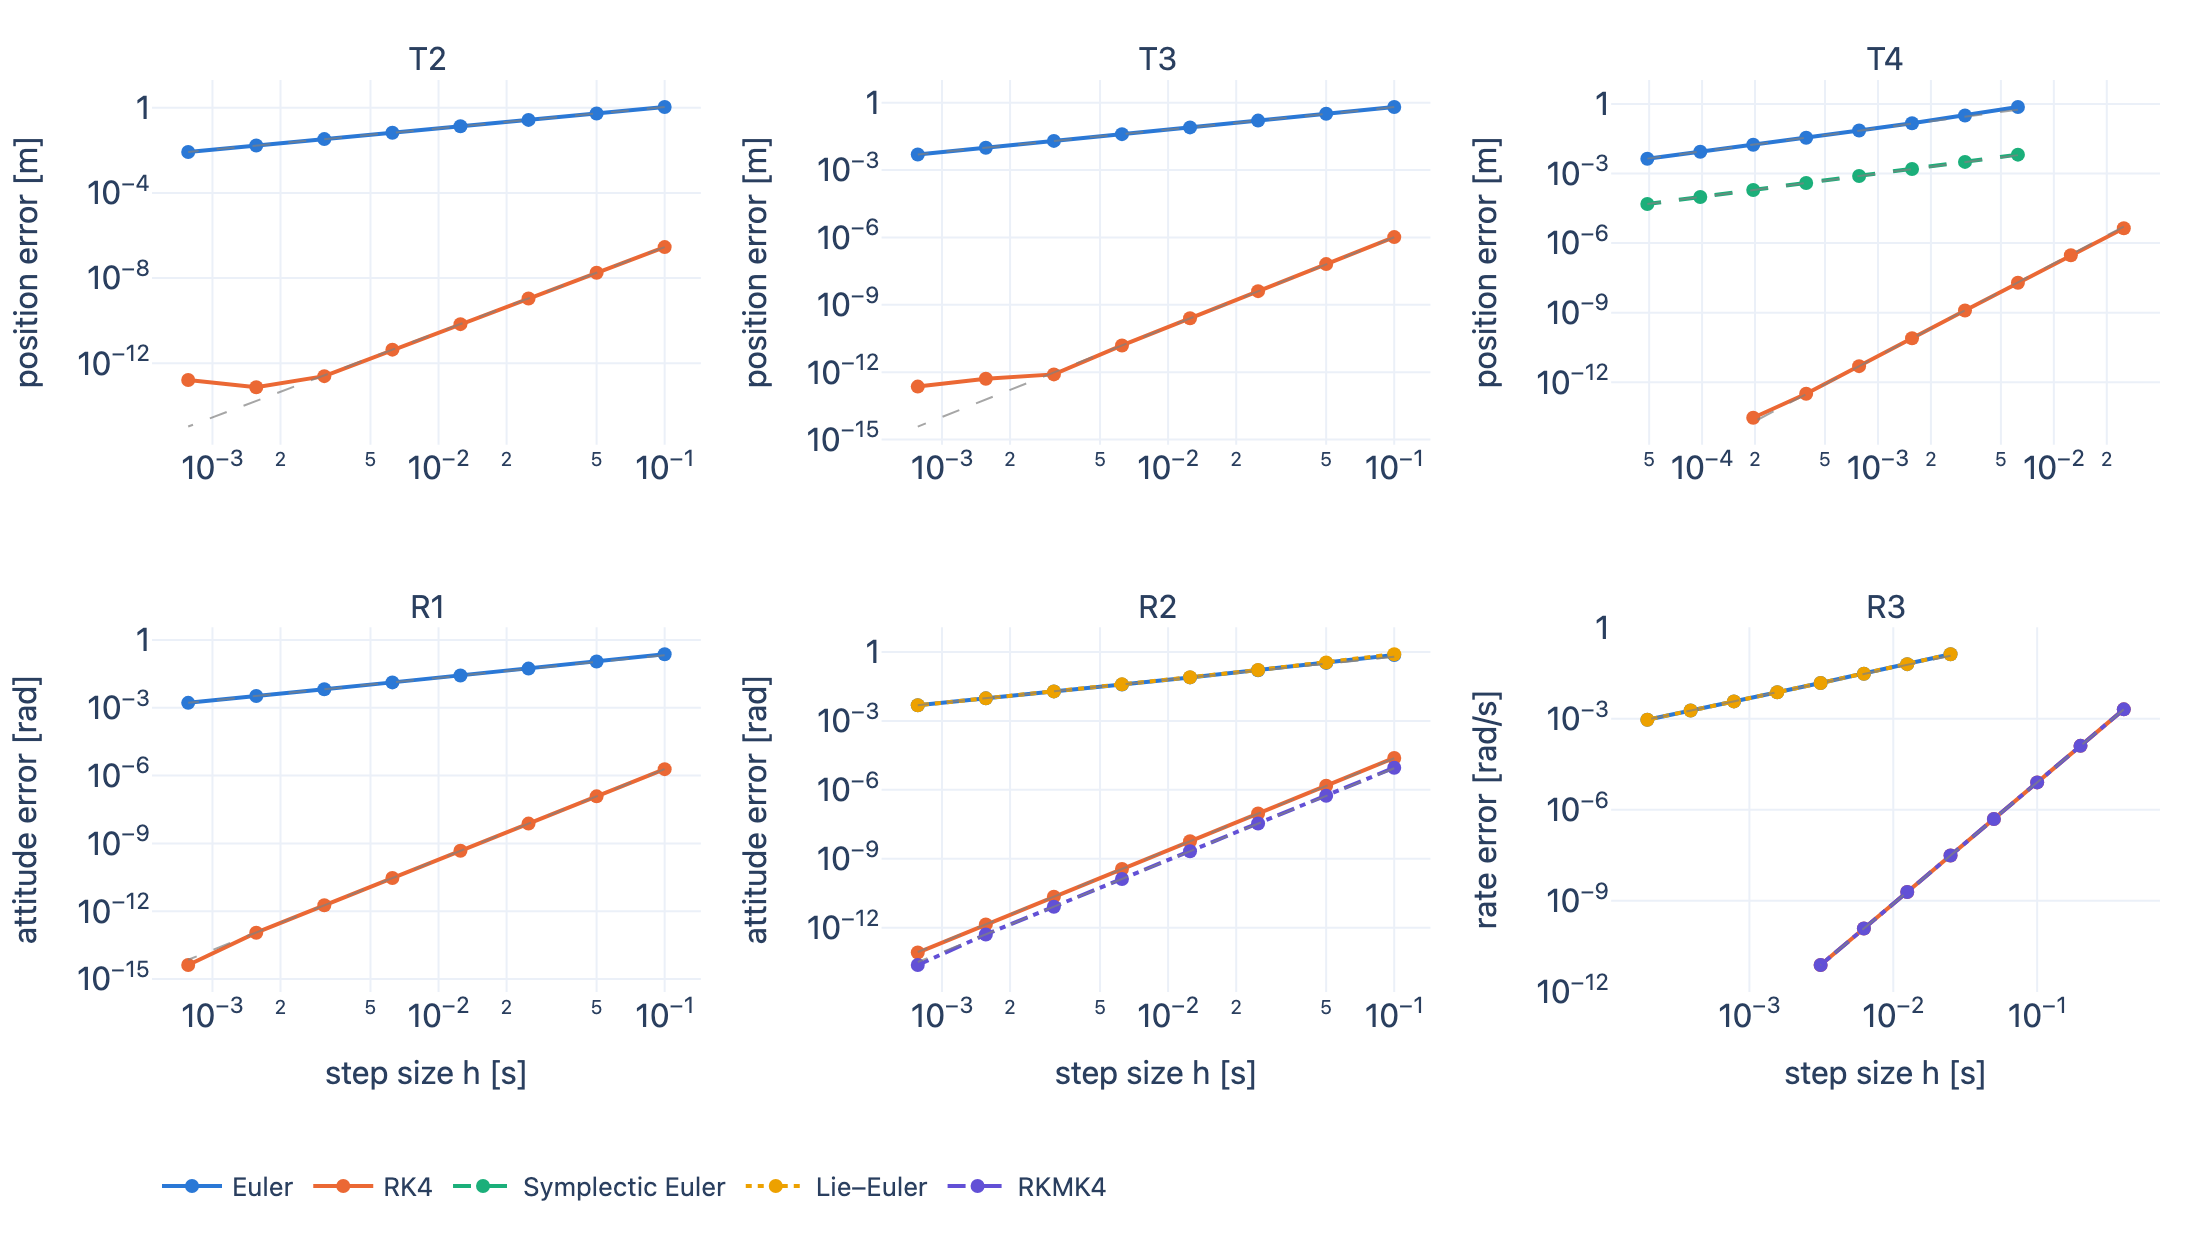
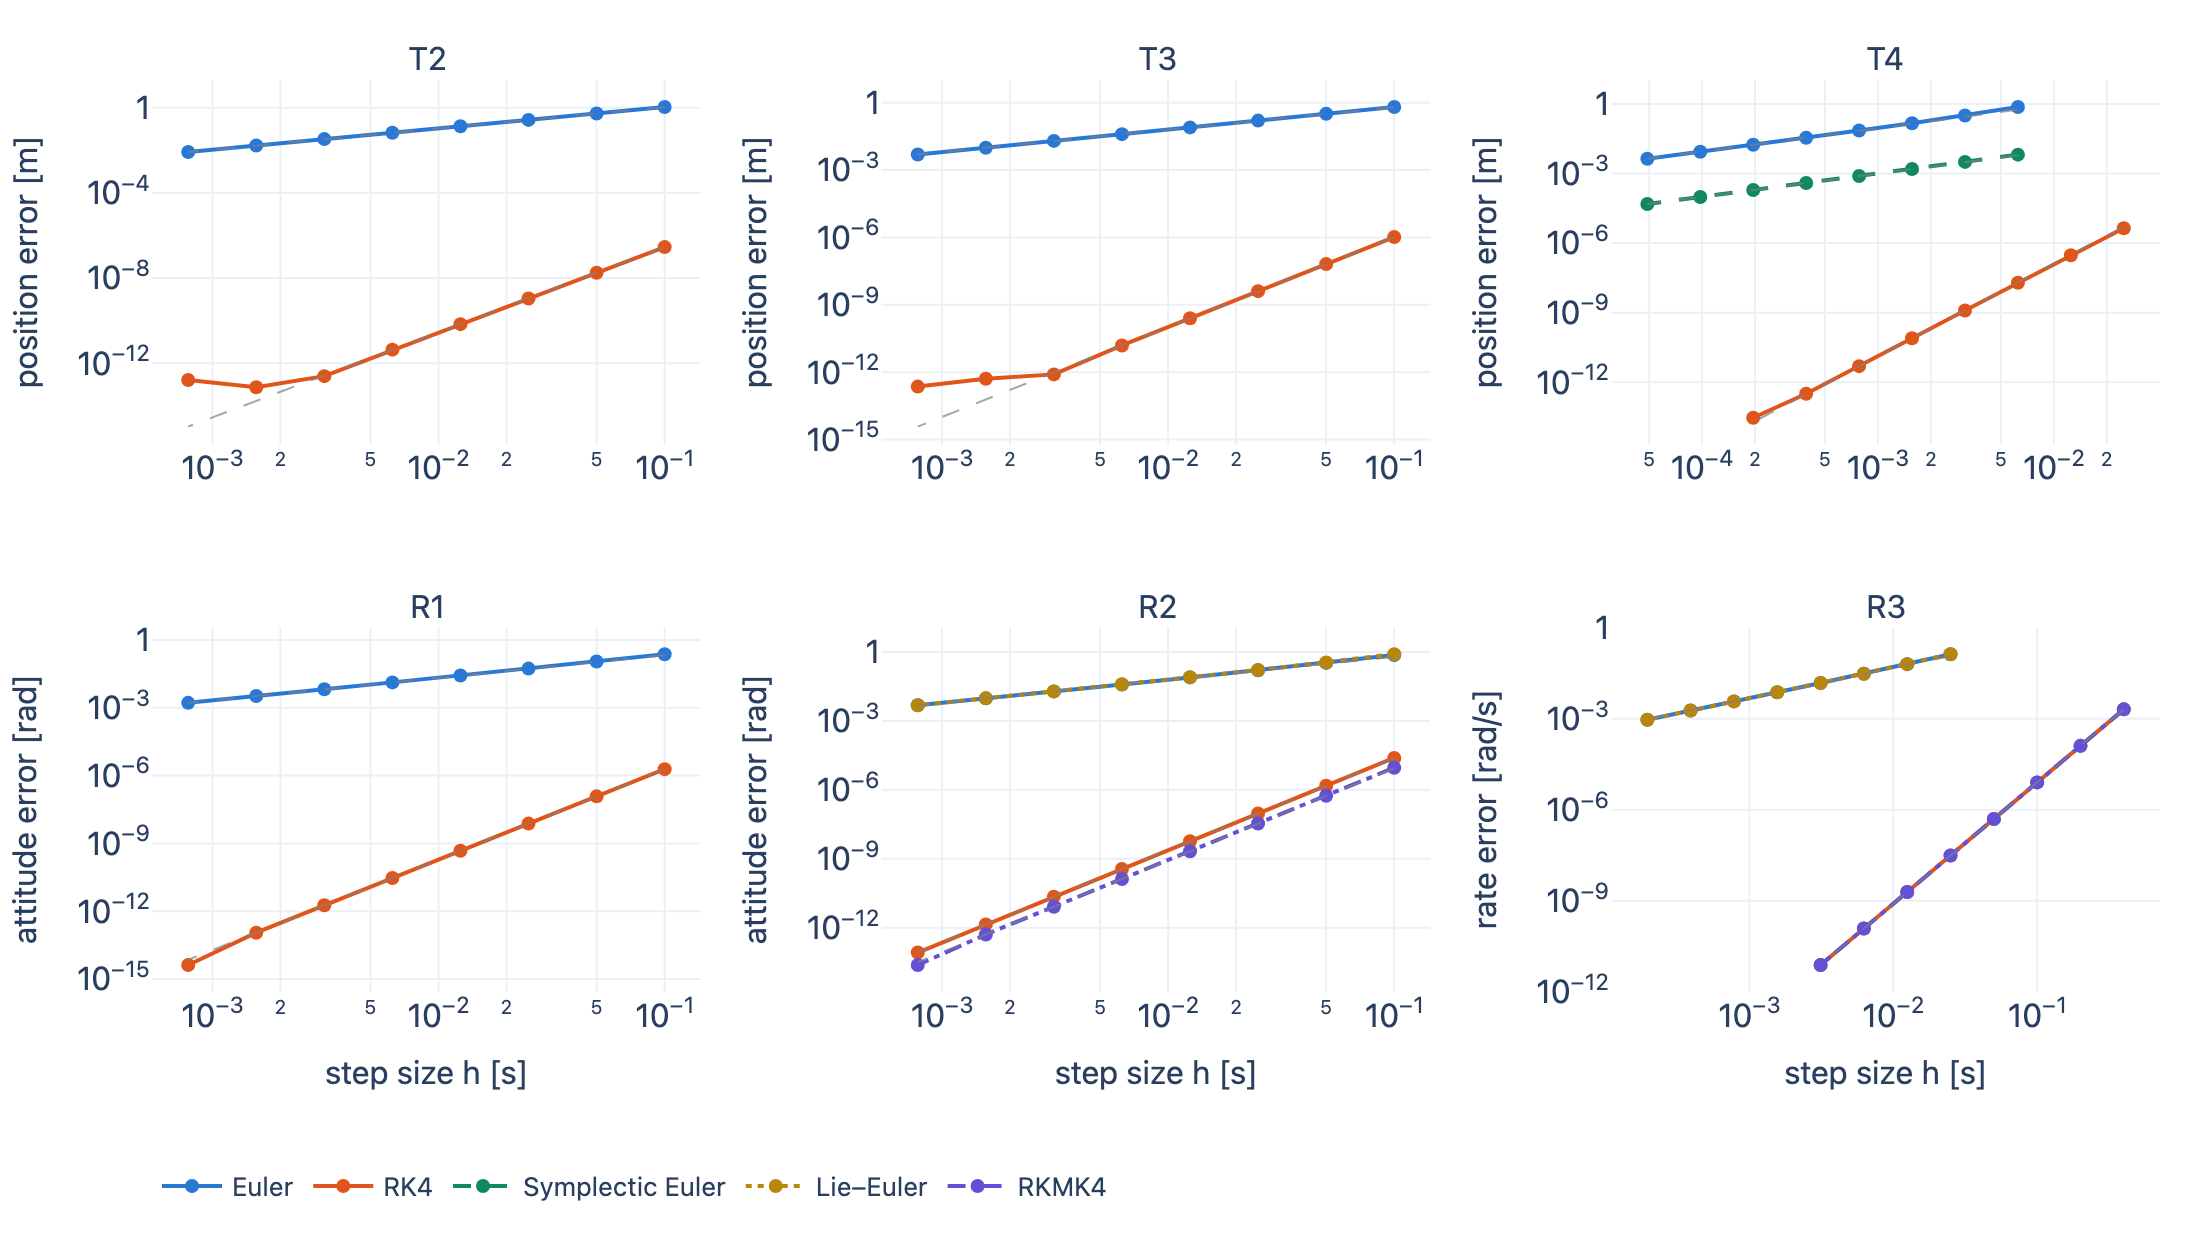
fix(report): series colours reach 3:1 contrast on both surfaces, with a numeric test; README states benchmark hardware/compiler

diff --git a/python/flightsim_analysis/plots.py b/python/flightsim_analysis/plots.py
@@ -12,9 +12,10 @@ from plotly.subplots import make_subplots
 
 from .metrics import INTEGRATORS, STUDY, hn, read_csv, trajectory
 
-# Categorical slots (dataviz reference palette, light mode; report.py swaps in the dark steps). Colour follows
+# Categorical slots (dataviz palette, slots 2-4 darkened to reach 3:1 on the light surface; report.py swaps in the dark steps). Colour follows
 # the integrator, never its rank in a panel.
-LIGHT = ["#2a78d6", "#eb6834", "#1baf7a", "#eda100", "#6250d6"]
+LIGHT = ["#2a78d6", "#e0561a", "#0f8a5f", "#b8860b", "#6250d6"]  # each >= 3:1 on #fcfcfb (test_report.py)
+START_MARKER = "#888888"
 SLOT = {name: i for i, name in enumerate(INTEGRATORS)}
 DASH = {"euler": "solid", "rk4": "solid", "symplectic_euler": "dash", "lie_euler": "dot", "rkmk4": "dashdot"}
 LABEL = {"euler": "Euler", "rk4": "RK4", "symplectic_euler": "Symplectic Euler", "lie_euler": "Lie–Euler",
@@ -173,7 +174,7 @@ def t4(out: Path) -> go.Figure:
     for name in ("euler", "symplectic_euler", "rk4"):
         tr = trajectory(out, f"rb_t4_{name}")
         fig.add_trace(go.Scatter(x=tr["pN_m"], y=tr["vN_mps"], name=LABEL[name], mode="lines", **_line(name)))
-    fig.add_trace(go.Scatter(x=[1], y=[0], mode="markers", name="start", marker=dict(size=9, color="#888"),
+    fig.add_trace(go.Scatter(x=[1], y=[0], mode="markers", name="start", marker=dict(size=9, color=START_MARKER),
                              meta="ref"))
     fig.update_xaxes(title_text="position p_N [m]")
     fig.update_yaxes(title_text="velocity v_N [m/s]", scaleanchor="x", scaleratio=1)

diff --git a/python/tests/test_report.py b/python/tests/test_report.py
@@ -62,3 +62,29 @@ def test_full_pipeline_builds_every_figure(tmp_path):
         assert f'id="fig-{f.id}"' in html
     assert "<script src" not in html and "<link " not in html  # self-contained: Plotly JS inlined
     shutil.rmtree(tmp_path / "out")
+
+
+# WCAG 1.4.11 non-text contrast: every series colour must reach 3:1 against the surface it is drawn on.
+LIGHT_SURFACE, DARK_SURFACE = "#fcfcfb", "#1a1a19"  # keep equal to --bg in report.CSS
+NON_TEXT_MIN = 3.0  # WCAG 2.1 SC 1.4.11
+
+
+def _luminance(hex_color: str) -> float:
+    c = [int(hex_color[i : i + 2], 16) / 255 for i in (1, 3, 5)]
+    lin = [x / 12.92 if x <= 0.03928 else ((x + 0.055) / 1.055) ** 2.4 for x in c]
+    return 0.2126 * lin[0] + 0.7152 * lin[1] + 0.0722 * lin[2]
+
+
+def contrast(a: str, b: str) -> float:
+    hi, lo = sorted((_luminance(a), _luminance(b)), reverse=True)
+    return (hi + 0.05) / (lo + 0.05)
+
+
+@pytest.mark.parametrize("colors,surface", [(plots.LIGHT, LIGHT_SURFACE), (report.DARK, DARK_SURFACE)])
+def test_series_colours_meet_non_text_contrast(colors, surface):
+    for c in colors + [plots.START_MARKER]:
+        assert contrast(c, surface) >= NON_TEXT_MIN, f"{c} on {surface}: {contrast(c, surface):.2f}"
+
+
+def test_surfaces_match_css():
+    assert f"--bg:{LIGHT_SURFACE}" in report.CSS and f"--bg:{DARK_SURFACE}" in report.CSS

diff --git a/docs/results.md b/docs/results.md
@@ -2,7 +2,7 @@
 
 > Generated by `python -m flightsim_analysis.report` from `docs/results.template.md` and `out/metrics.json`. Do not edit by hand: every number below is filled in from the run. The figures are in `out/index.html`.
 
-Build: flightsim 0.1.0 (de81559), AppleClang 15.0.0.15000100, Release.
+Build: flightsim 0.1.0 (e5d1477), AppleClang 15.0.0.15000100, Release.
 
 ## Core rigid-body validation
 
@@ -78,13 +78,13 @@ At h = 0.05 s over 20 s the phase radius on the ω = 1 rad/s axis ends at this m
 
 ## Performance
 
-Release build, single thread, 11 logical CPUs at 24 MHz as reported by Google Benchmark. PRD §11 targets are reported, not gated.
+Release build, single thread, 11 logical CPUs (Google Benchmark reports no usable clock speed on this machine). PRD §11 targets are reported, not gated.
 
 | Integrator | Rigid-body step (gravity + quadratic drag) [ns] | R3 10 s run, h = 0.01 s [µs] |
 |---|---|---|
 | Euler | 28 | 37 |
-| RK4 | 99 | 107 |
-| RKMK4 | 213 | 211 |
+| RK4 | 100 | 102 |
+| RKMK4 | 215 | 209 |
 
 ## Aircraft
 

diff --git a/docs/README.template.md b/docs/README.template.md
@@ -18,7 +18,7 @@ Spin about the intermediate axis flips: the body rate q changes sign {{r4.sign_c
 
 ![R4 Dzhanibekov flip: body rates and inertial angular momentum](docs/img/r4.png)
 
-A rigid-body RK4 step with gravity and quadratic drag costs {{bench.step.rk4.ns:.0f}} ns on the benchmark machine (Euler {{bench.step.euler.ns:.0f}} ns, RKMK4 {{bench.step.rkmk4.ns:.0f}} ns). The step loop performs zero heap allocations (asserted by `alloc_tests`).
+A rigid-body RK4 step with gravity and quadratic drag costs {{bench.step.rk4.ns:.0f}} ns ({{env.build_type}} build, {{env.compiler}}, {{bench.cpus}} logical CPUs (Google Benchmark reports no usable clock speed on this machine), single thread; Euler {{bench.step.euler.ns:.0f}} ns, RKMK4 {{bench.step.rkmk4.ns:.0f}} ns). The step loop performs zero heap allocations (asserted by `alloc_tests`).
 
 ## Quickstart
 

diff --git a/README.md b/README.md
@@ -18,7 +18,7 @@ Spin about the intermediate axis flips: the body rate q changes sign 2 times in 
 
 ![R4 Dzhanibekov flip: body rates and inertial angular momentum](docs/img/r4.png)
 
-A rigid-body RK4 step with gravity and quadratic drag costs 99 ns on the benchmark machine (Euler 28 ns, RKMK4 213 ns). The step loop performs zero heap allocations (asserted by `alloc_tests`).
+A rigid-body RK4 step with gravity and quadratic drag costs 100 ns (Release build, AppleClang 15.0.0.15000100, 11 logical CPUs (Google Benchmark reports no usable clock speed on this machine), single thread; Euler 28 ns, RKMK4 215 ns). The step loop performs zero heap allocations (asserted by `alloc_tests`).
 
 ## Quickstart
 

diff --git a/docs/design.md b/docs/design.md
@@ -136,4 +136,3 @@ From `PROGRESS.md` and M2/M3 work:
 - Observed orders are measured on eight step levels with reference-accuracy checks; cases without a closed-form attitude (R3 attitude, R4) rely on the fine RK4 reference.
 - Zero-allocation is asserted for the RK4 loop with a quadratic-drag force model; other integrators and force combinations are not separately tested.
 - Benchmark numbers in `docs/results.md` are for one machine and one compiler (recorded there); they are reported, not gated.
-- The report's light-mode palette has two series colours (aqua, amber) below 3:1 contrast on the surface; lines also differ by dash pattern and the drift figure is accompanied by a table.

diff --git a/docs/results.template.md b/docs/results.template.md
@@ -47,7 +47,7 @@ At h = {{t4.h}} s over {{t4.t_final:.0f}} s the phase radius on the ω = 1 rad/s
 
 ## Performance
 
-Release build, single thread, {{bench.cpus}} logical CPUs at {{bench.mhz:.0f}} MHz as reported by Google Benchmark. PRD §11 targets are reported, not gated.
+Release build, single thread, {{bench.cpus}} logical CPUs (Google Benchmark reports no usable clock speed on this machine). PRD §11 targets are reported, not gated.
 
 | Integrator | Rigid-body step (gravity + quadratic drag) [ns] | R3 10 s run, h = {{bench.r3run.h}} s [µs] |
 |---|---|---|
